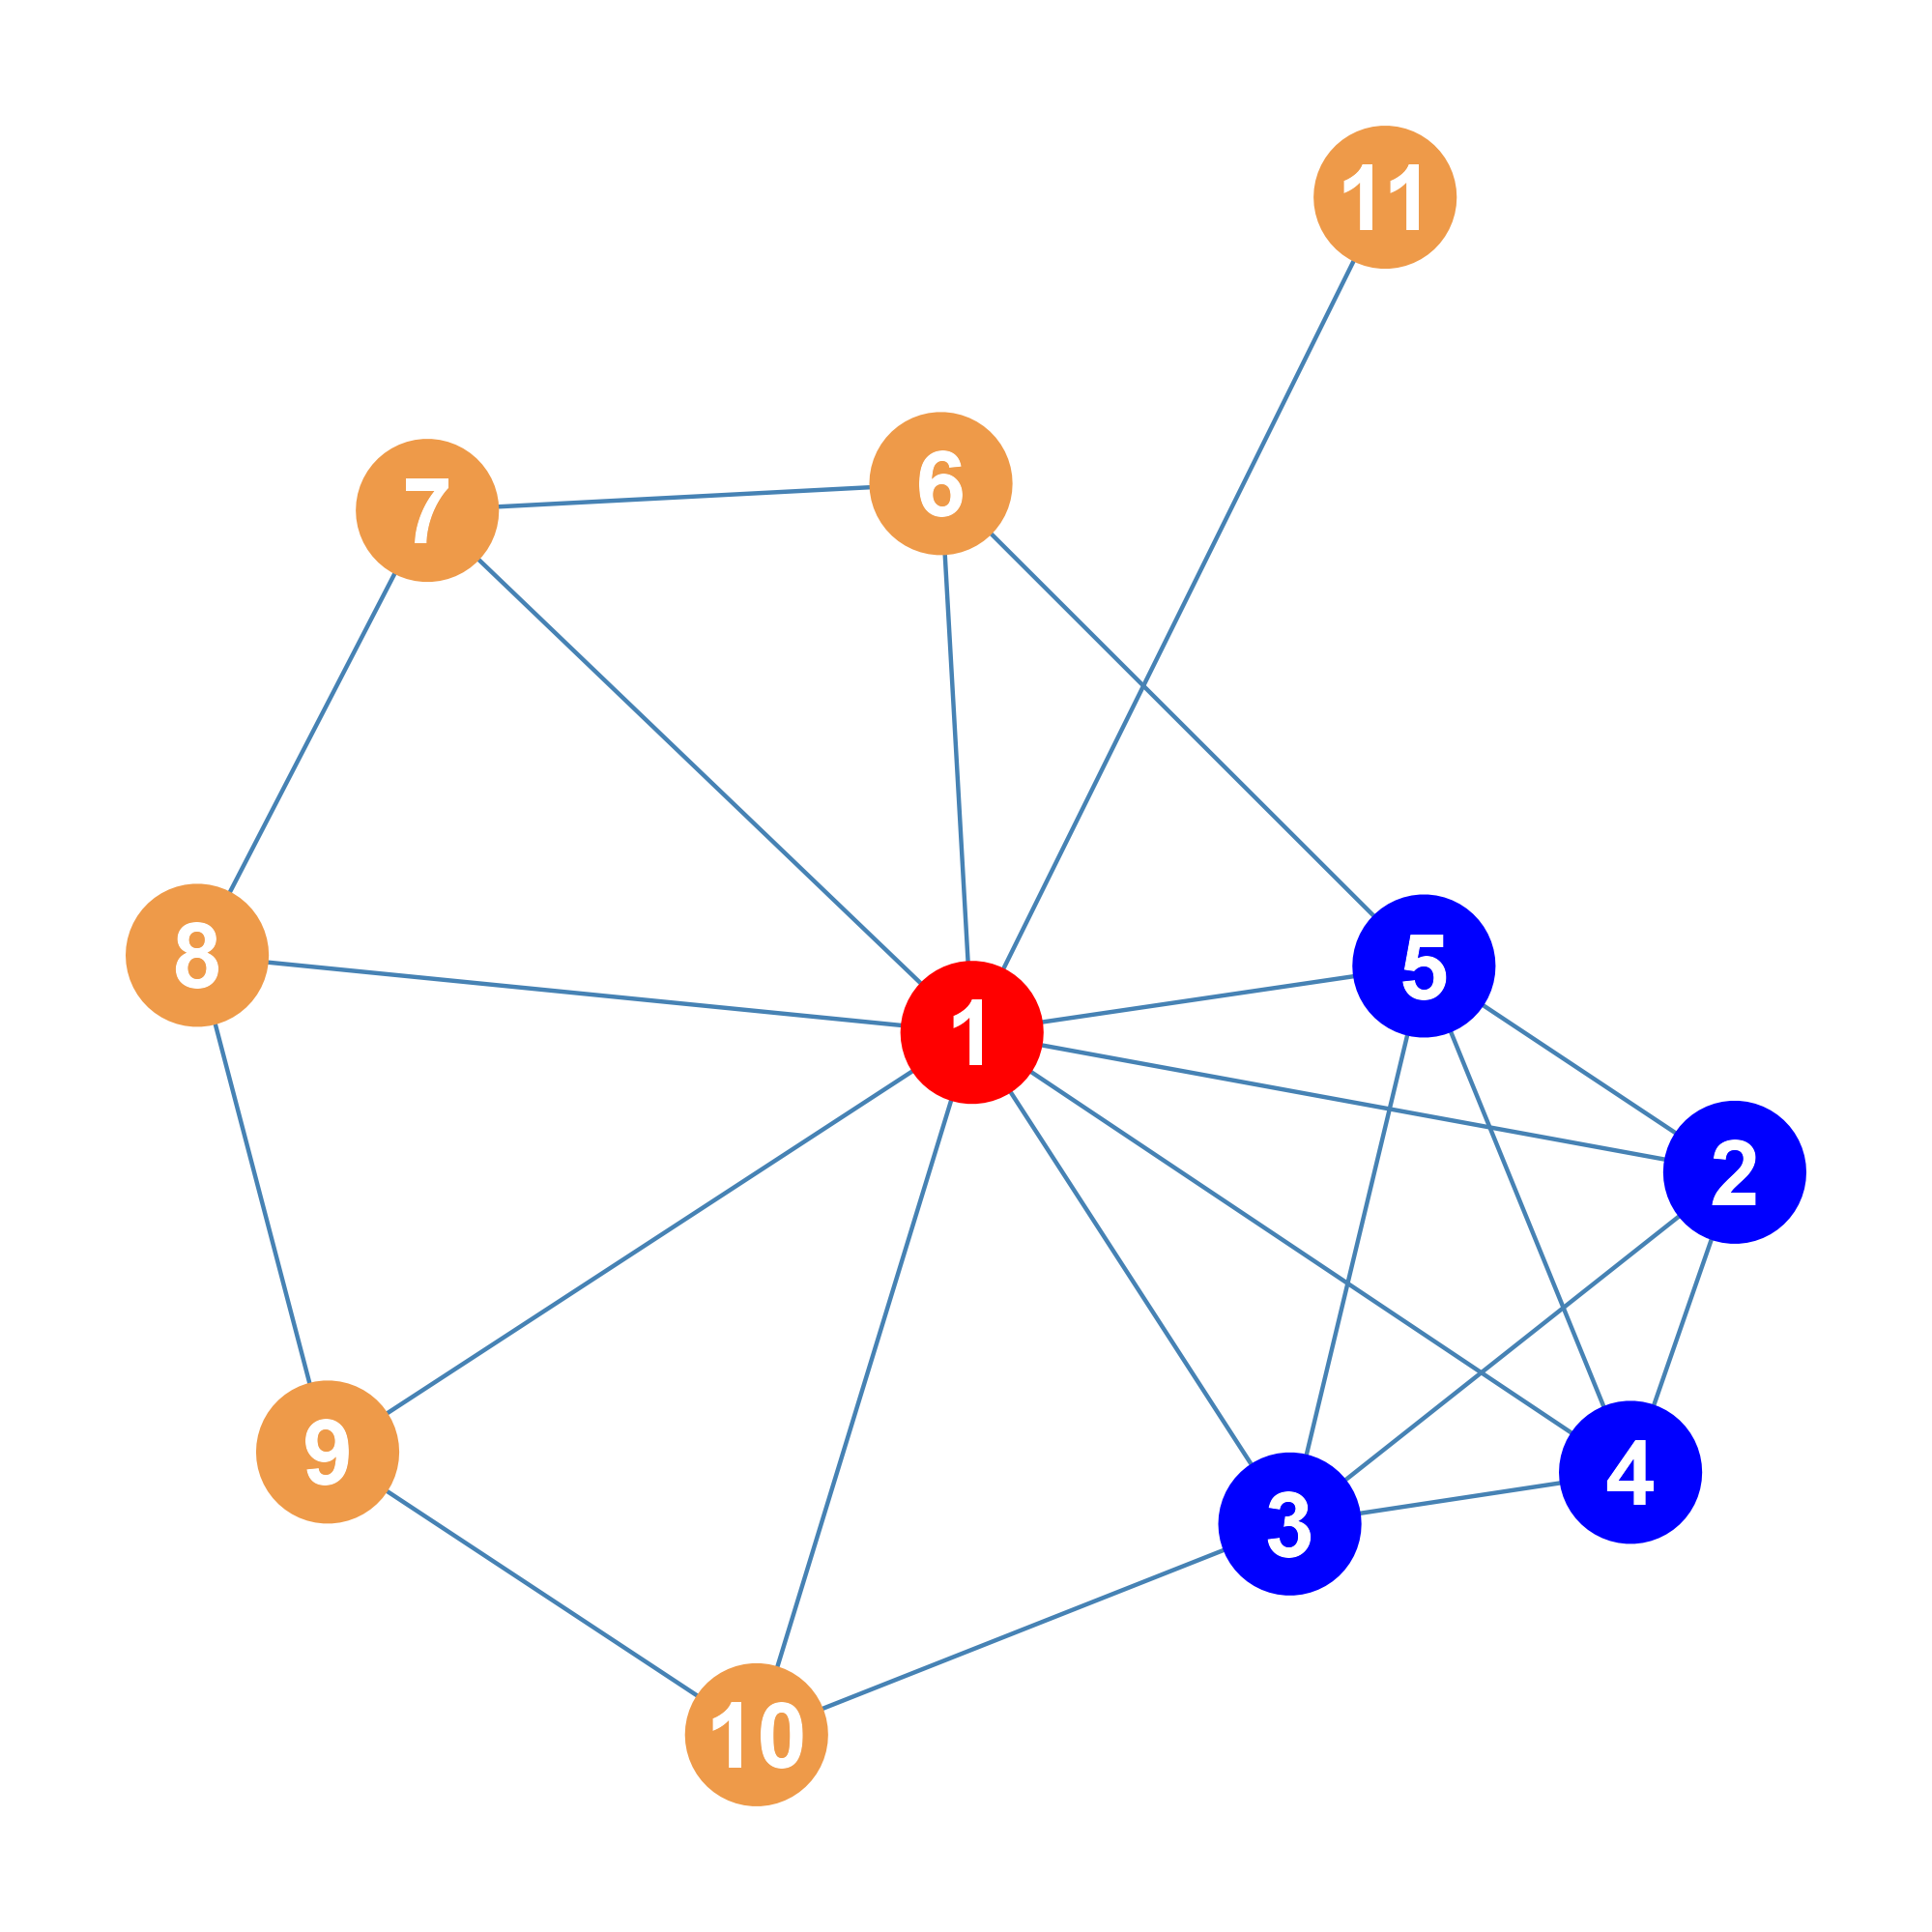
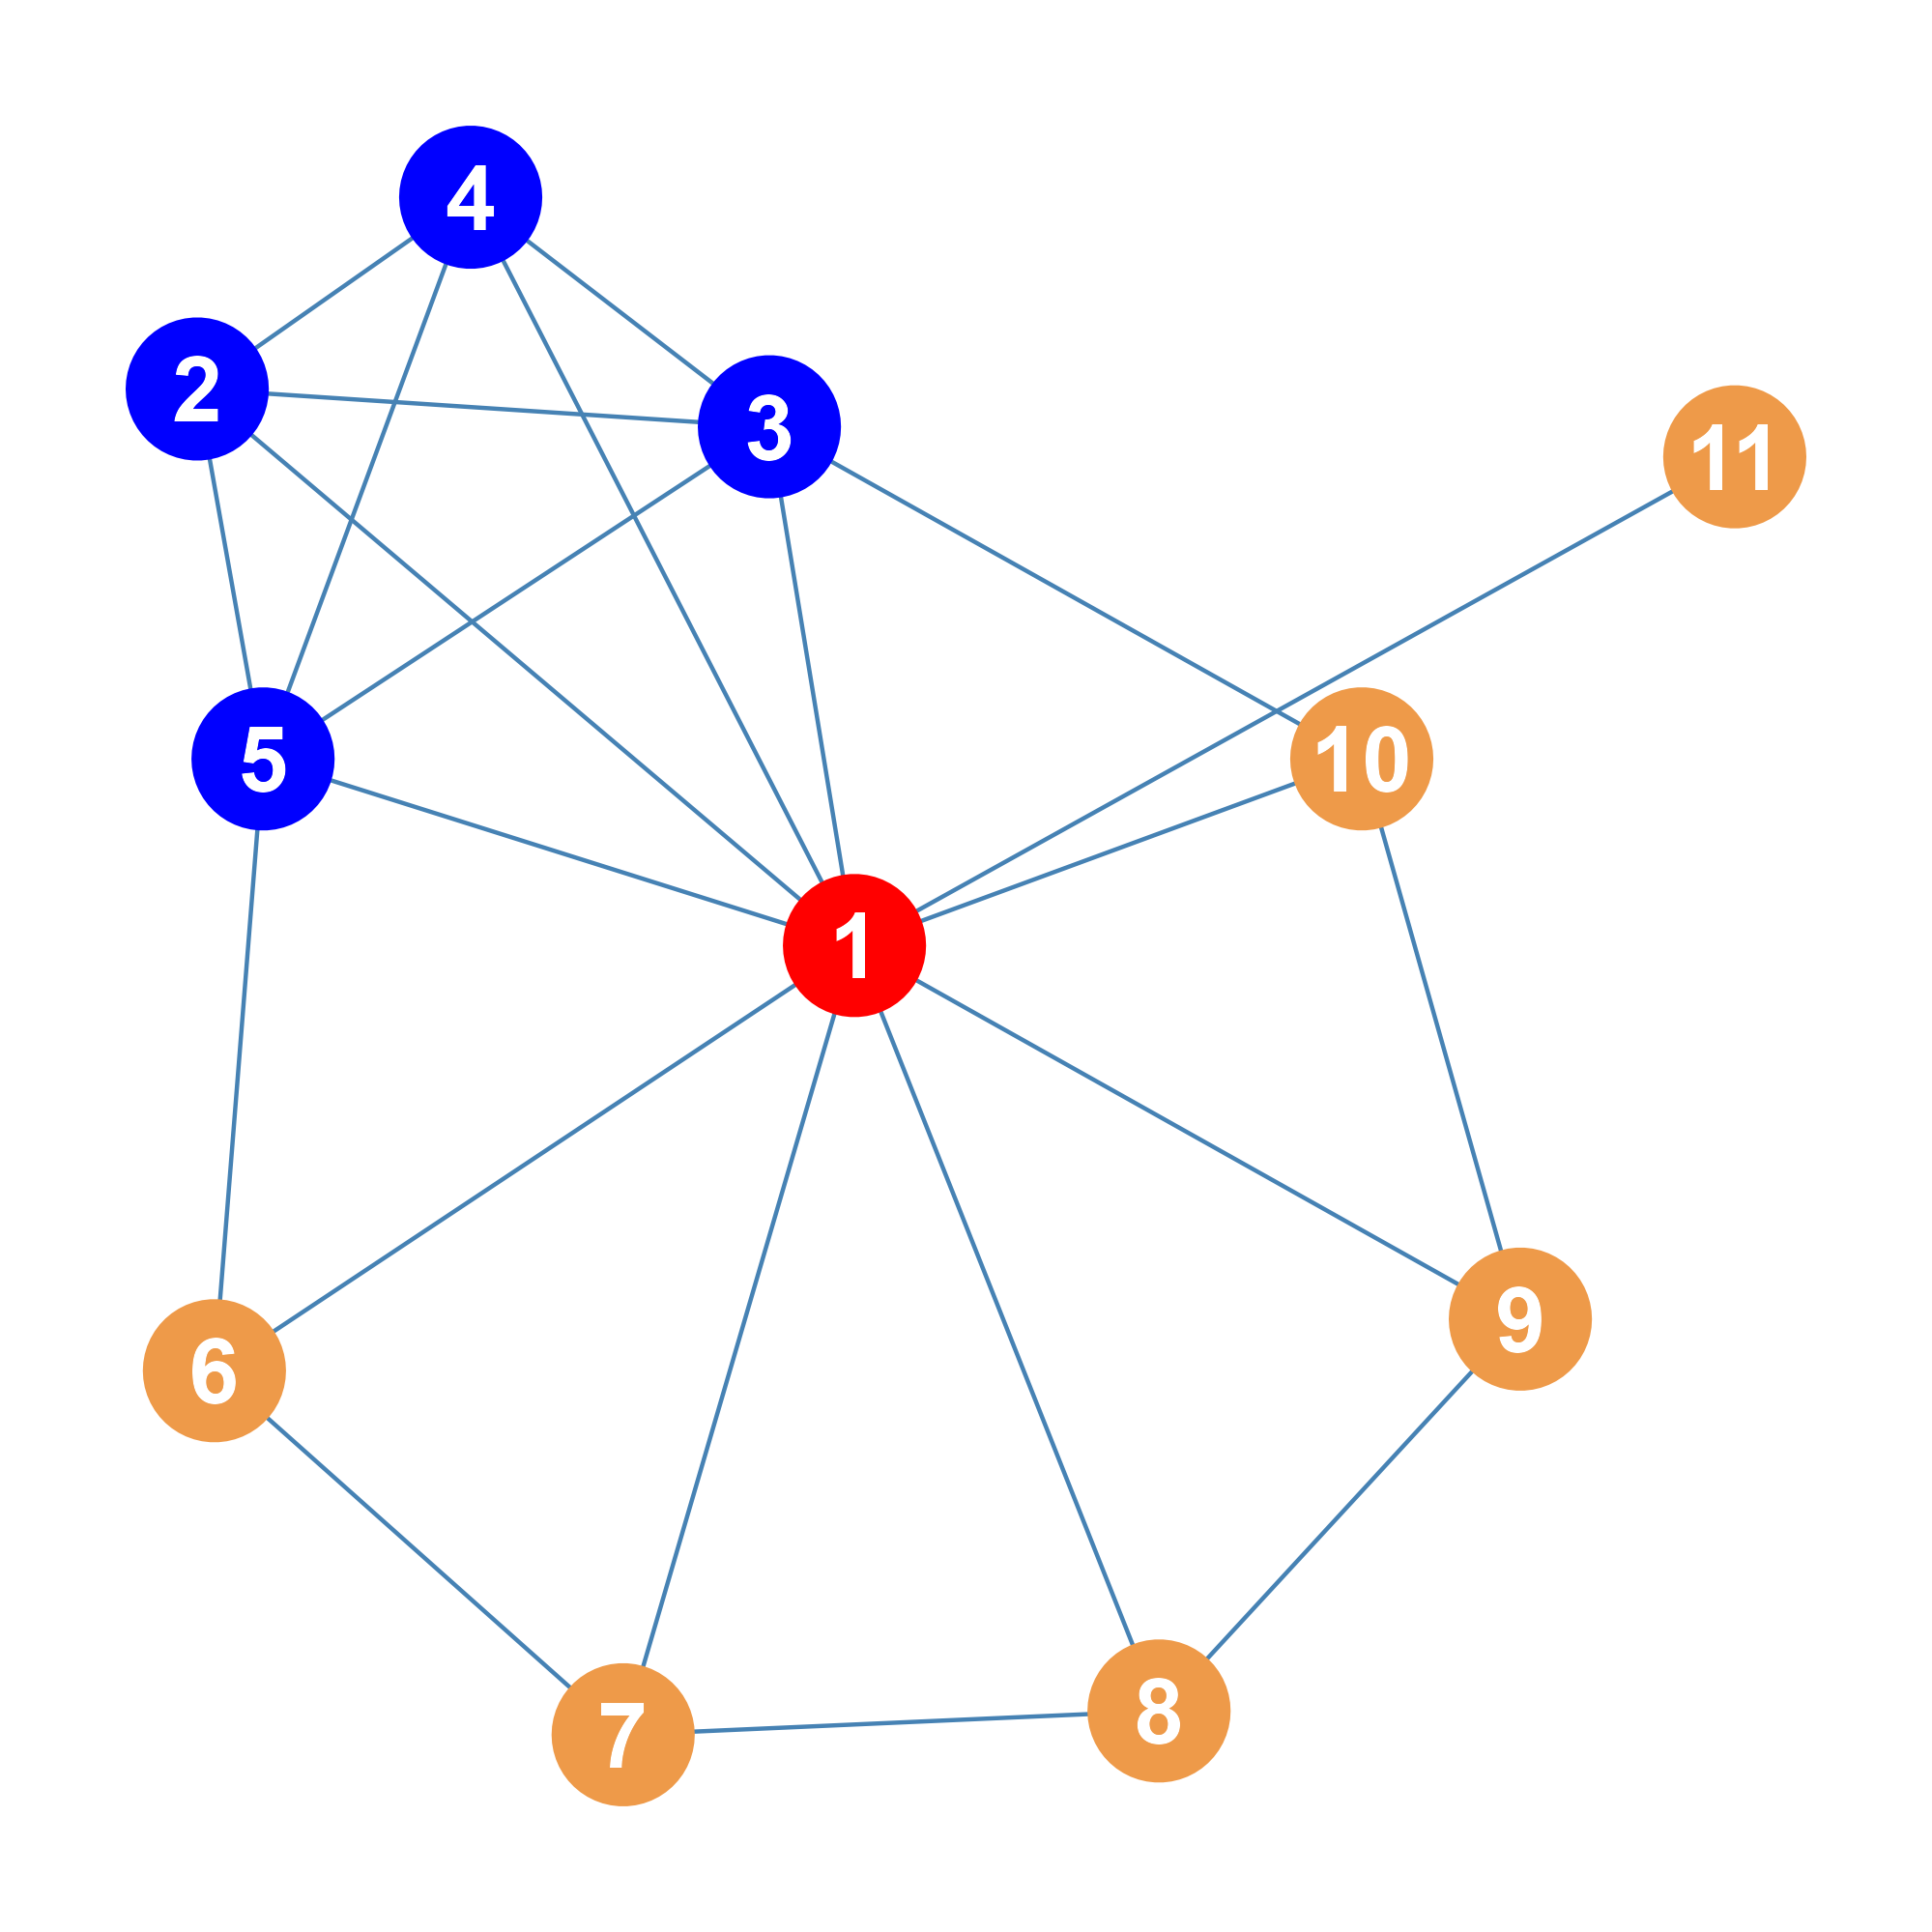
borf

diff --git a/Tabs/sw-edge1.tex b/Tabs/sw-edge1.tex
@@ -1,0 +1,22 @@
+\begin{table}
+\centering
+\caption{\label{tab:rege1}Distinction centrality scores for small world graph with one long tie and a pendant node.}
+\centering
+\begin{tabular}[t]{lrrrr}
+\toprule
+Nodes & $\beta_i$ & $s_i$ & $\kappa_i$ & $\alpha$\\
+\midrule
+1 & 0.190 & 0.856 & 0.529 & 0.84\\
+2 & 0.015 & 0.816 & 0.671 & 0.84\\
+3 & 0.039 & 0.812 & 0.644 & 0.84\\
+4 & 0.139 & 0.991 & 0.693 & 0.84\\
+5 & 0.038 & 0.797 & 0.631 & 0.84\\
+6 & 0.016 & 0.795 & 0.652 & 0.84\\
+7 & 0.006 & 0.796 & 0.663 & 0.84\\
+8 & 0.030 & 0.800 & 0.642 & 0.84\\
+9 & 0.132 & 1.000 & 0.708 & 0.84\\
+10 & 0.035 & 0.815 & 0.650 & 0.84\\
+11 & -0.640 & 0.201 & 0.809 & 0.84\\
+\bottomrule
+\end{tabular}
+\end{table}

diff --git a/Tabs/sw-edge2.tex b/Tabs/sw-edge2.tex
@@ -1,0 +1,22 @@
+\begin{table}
+\centering
+\caption{\label{tab:rege2}Distinction centrality scores for small world graph with two long ties and a pendant node.}
+\centering
+\begin{tabular}[t]{lrrrr}
+\toprule
+Nodes & $\beta_i$ & $s_i$ & $\kappa_i$ & $\alpha$\\
+\midrule
+1 & 0.175 & 0.856 & 0.558 & 0.857\\
+2 & 0.135 & 1.000 & 0.722 & 0.857\\
+3 & -0.014 & 0.817 & 0.714 & 0.857\\
+4 & 0.122 & 0.990 & 0.726 & 0.857\\
+5 & -0.004 & 0.805 & 0.694 & 0.857\\
+6 & -0.001 & 0.803 & 0.689 & 0.857\\
+7 & 0.125 & 0.988 & 0.721 & 0.857\\
+8 & -0.013 & 0.807 & 0.704 & 0.857\\
+9 & 0.137 & 0.998 & 0.718 & 0.857\\
+10 & -0.009 & 0.819 & 0.711 & 0.857\\
+11 & -0.652 & 0.192 & 0.817 & 0.857\\
+\bottomrule
+\end{tabular}
+\end{table}

diff --git a/Tabs/sw-edge3.tex b/Tabs/sw-edge3.tex
@@ -1,0 +1,22 @@
+\begin{table}
+\centering
+\caption{\label{tab:rege3}Distinction centrality scores for small world graph with three long ties and a pendant node.}
+\centering
+\begin{tabular}[t]{lrrrr}
+\toprule
+Nodes & $\beta_i$ & $s_i$ & $\kappa_i$ & $\alpha$\\
+\midrule
+1 & 0.298 & 1.000 & 0.612 & 0.91\\
+2 & 0.130 & 0.960 & 0.744 & 0.91\\
+3 & -0.052 & 0.790 & 0.771 & 0.91\\
+4 & 0.143 & 0.952 & 0.723 & 0.91\\
+5 & -0.020 & 0.781 & 0.731 & 0.91\\
+6 & 0.133 & 0.956 & 0.737 & 0.91\\
+7 & 0.169 & 0.950 & 0.695 & 0.91\\
+8 & -0.045 & 0.783 & 0.758 & 0.91\\
+9 & 0.106 & 0.958 & 0.766 & 0.91\\
+10 & -0.057 & 0.792 & 0.778 & 0.91\\
+11 & -0.805 & 0.214 & 1.000 & 0.91\\
+\bottomrule
+\end{tabular}
+\end{table}

diff --git a/Tabs/regular-edge.tex b/Tabs/regular-edge.tex
@@ -1,0 +1,18 @@
+\begin{table}
+\centering
+\caption{\label{tab:rege}Distinction centrality scores for a regular graph with a pendant.}
+\centering
+\begin{tabular}[t]{lrrrr}
+\toprule
+Nodes & $\beta_i$ & $s_i$ & $\kappa_i$ & $\alpha$\\
+\midrule
+1 & 0.236 & 1.000 & 0.494 & 0.73\\
+2, 10 & 0.052 & 0.947 & 0.639 & 0.73\\
+3, 9 & 0.052 & 0.942 & 0.635 & 0.73\\
+4, 8 & 0.059 & 0.925 & 0.617 & 0.73\\
+5, 7 & 0.076 & 0.920 & 0.595 & 0.73\\
+6 & 0.103 & 0.916 & 0.567 & 0.73\\
+11 & -0.819 & 0.248 & 1.000 & 0.73\\
+\bottomrule
+\end{tabular}
+\end{table}

diff --git a/Tabs/small-world-one.tex b/Tabs/small-world-one.tex
@@ -1,0 +1,14 @@
+\begin{table}
+\centering
+\caption{\label{tab:sw1}Distinction centrality scores for small world graph with one long tie.}
+\centering
+\begin{tabular}[t]{lrrrr}
+\toprule
+Nodes & $\beta_i$ & $s_i$ & $\kappa_i$ & $\alpha$\\
+\midrule
+1, 2, 6, 7 & -0.033 & 0.809 & 0.661 & 0.776\\
+3, 5, 8, 10 & -0.008 & 0.809 & 0.636 & 0.776\\
+4, 9 & 0.082 & 1.000 & 0.694 & 0.776\\
+\bottomrule
+\end{tabular}
+\end{table}

diff --git a/Tabs/small-world-three.tex b/Tabs/small-world-three.tex
@@ -1,0 +1,14 @@
+\begin{table}
+\centering
+\caption{\label{tab:sw3}Distinction centrality scores for small world graph with three long ties.}
+\centering
+\begin{tabular}[t]{lrrrr}
+\toprule
+Nodes & $\beta_i$ & $s_i$ & $\kappa_i$ & $\alpha$\\
+\midrule
+1, 2, 6, 7 & 0.074 & 1.000 & 0.734 & 0.808\\
+3, 5, 8, 10 & -0.098 & 0.823 & 0.763 & 0.808\\
+4, 9 & 0.046 & 1.000 & 0.762 & 0.808\\
+\bottomrule
+\end{tabular}
+\end{table}

diff --git a/Tabs/small-world-two.tex b/Tabs/small-world-two.tex
@@ -1,0 +1,14 @@
+\begin{table}
+\centering
+\caption{\label{tab:sw2}Distinction centrality scores for small world graph with two long ties.}
+\centering
+\begin{tabular}[t]{lrrrr}
+\toprule
+Nodes & $\beta_i$ & $s_i$ & $\kappa_i$ & $\alpha$\\
+\midrule
+1, 5, 6, 10 & -0.049 & 0.817 & 0.698 & 0.795\\
+2, 4, 7, 9 & 0.079 & 1.000 & 0.716 & 0.795\\
+3, 8 & -0.059 & 0.817 & 0.708 & 0.795\\
+\bottomrule
+\end{tabular}
+\end{table}

diff --git a/Tabs/wheel-clique-pendant2.tex b/Tabs/wheel-clique-pendant2.tex
@@ -7,12 +7,12 @@
 Nodes & $\beta_i$ & $s_i$ & $\kappa_i$ & $\alpha$\\
 \midrule
 1 & 0.586 & 1.000 & 0.550 & 1.136\\
-2, 4 & 0.209 & 0.680 & 0.563 & 1.136\\
+2 & 0.209 & 0.680 & 0.563 & 1.136\\
 3, 5 & 0.205 & 0.731 & 0.625 & 1.136\\
-6, 10 & 0.031 & 0.655 & 0.714 & 1.136\\
-7, 9 & -0.174 & 0.440 & 0.673 & 1.136\\
-8 & -0.135 & 0.376 & 0.562 & 1.136\\
-10 & -0.128 & 0.366 & 0.543 & 1.136\\
+4 & 0.031 & 0.655 & 0.714 & 1.136\\
+6, 10 & -0.174 & 0.440 & 0.673 & 1.136\\
+7, 9 & -0.135 & 0.376 & 0.562 & 1.136\\
+8 & -0.128 & 0.366 & 0.543 & 1.136\\
 11 & -0.490 & 0.142 & 0.651 & 1.136\\
 \bottomrule
 \end{tabular}

diff --git a/Tabs/broker3.tex b/Tabs/broker3.tex
@@ -6,10 +6,8 @@
 \toprule
 Nodes & $\beta_i$ & $s_i$ & $\kappa_i$ & $\alpha$\\
 \midrule
-1 & 0.003 & 0.588 & 0.573 & 0.98\\
-2, 3, 5, 6 & -0.020 & 1.000 & 1.000 & 0.98\\
-4 & 0.003 & 0.588 & 0.573 & 0.98\\
-7 & -0.020 & 1.000 & 1.000 & 0.98\\
+1, 2, 3, 4, 6, 7, 8, 9 & 0.003 & 0.588 & 0.573 & 0.98\\
+5 & -0.020 & 1.000 & 1.000 & 0.98\\
 \bottomrule
 \end{tabular}
 \end{table}

diff --git a/Tabs/structfold4.tex b/Tabs/structfold4.tex
@@ -6,8 +6,8 @@
 \toprule
 Nodes & $\beta_i$ & $s_i$ & $\kappa_i$ & $\alpha$\\
 \midrule
-4 & -0.004 & 0.608 & 0.628 & 1.026\\
-1, 2, 3, 5, 6, 7 & 0.026 & 1.000 & 1.000 & 1.026\\
+1, 2, 3, 5, 6, 7 & -0.004 & 0.608 & 0.628 & 1.026\\
+4 & 0.026 & 1.000 & 1.000 & 1.026\\
 \bottomrule
 \end{tabular}
 \end{table}

diff --git a/Tabs/structfold5.tex b/Tabs/structfold5.tex
@@ -6,8 +6,8 @@
 \toprule
 Nodes & $\beta_i$ & $s_i$ & $\kappa_i$ & $\alpha$\\
 \midrule
-5 & 0.003 & 0.588 & 0.573 & 0.98\\
-1, 2, 3, 4, 6, 7, 8, 9 & -0.020 & 1.000 & 1.000 & 0.98\\
+1, 2, 3, 4, 6, 7, 8, 9 & 0.003 & 0.588 & 0.573 & 0.98\\
+5 & -0.020 & 1.000 & 1.000 & 0.98\\
 \bottomrule
 \end{tabular}
 \end{table}

diff --git a/Tabs/wheel-clique-pendant1.tex b/Tabs/wheel-clique-pendant1.tex
@@ -12,7 +12,7 @@ Nodes & $\beta_i$ & $s_i$ & $\kappa_i$ & $\alpha$\\
 6, 10 & -0.143 & 0.429 & 0.661 & 1.208\\
 7, 9 & -0.110 & 0.371 & 0.558 & 1.208\\
 8 & -0.104 & 0.361 & 0.540 & 1.208\\
-10 & -0.750 & 0.207 & 1.000 & 1.208\\
+11 & -0.750 & 0.207 & 1.000 & 1.208\\
 \bottomrule
 \end{tabular}
 \end{table}